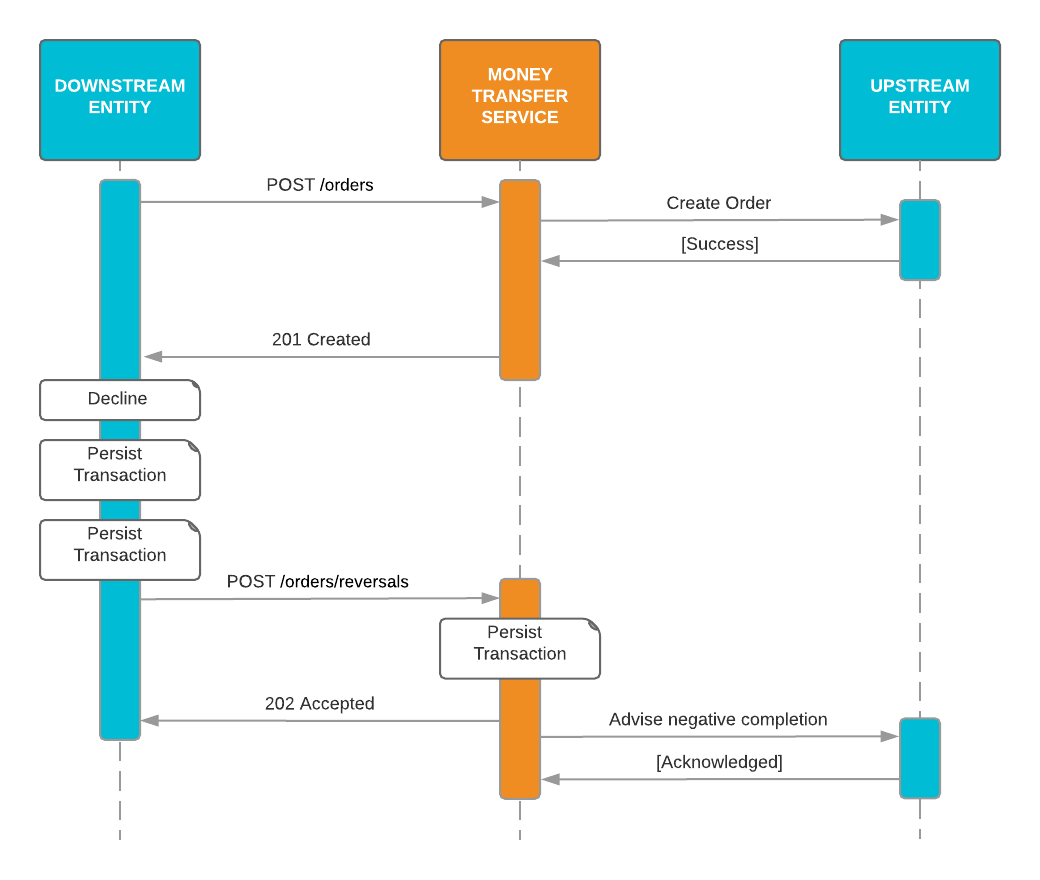
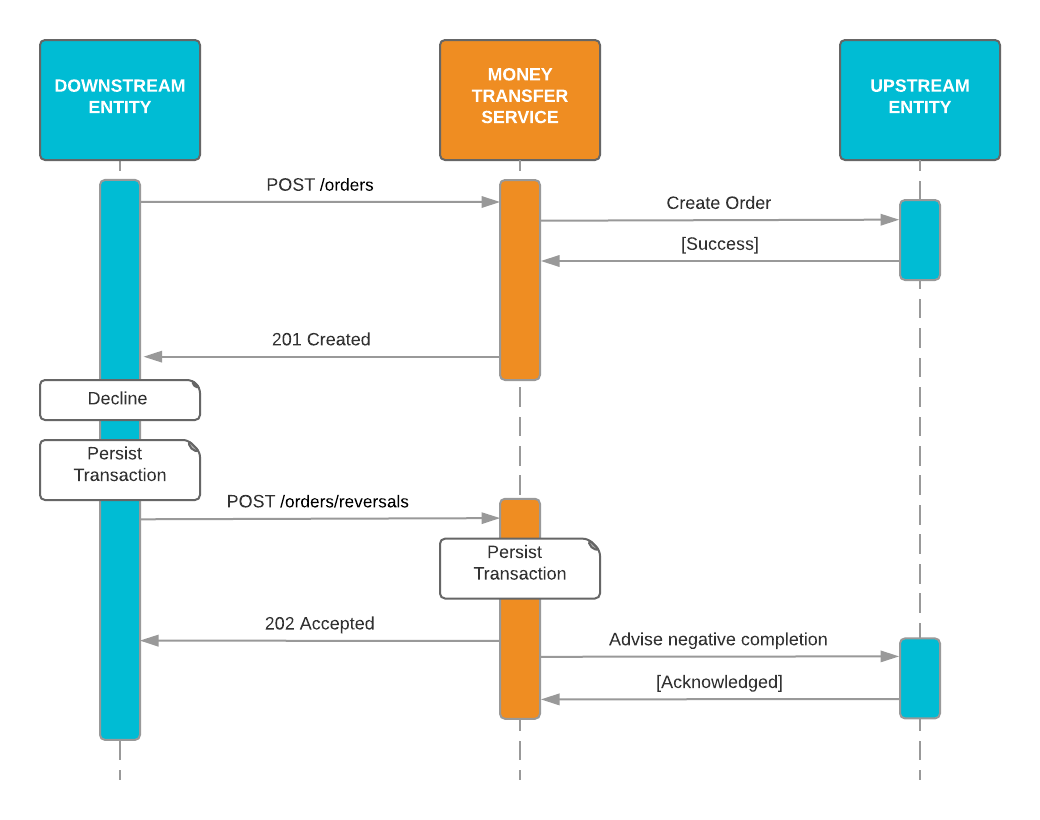
Small image and text fix

diff --git a/src/docs/devguide/hugo/site/content/transaction-flows.md b/src/docs/devguide/hugo/site/content/transaction-flows.md
@@ -93,19 +93,21 @@ In this case, the initial request from the downstream entity is processed and th
 
 ### Reversed Create Order
 
-The below diagram depicts the flow for both a cancellation and a timeout reversal.
+The below diagram depicts the flow for a cancellation.
 
-A Cancellation is a manual process that occurs when the downstream entity initiates a reversal despite receiving a successful response to their original request. A timeout is an automatic process that occurs when the Money Transfer Retailer Service does not receive a response to the request in the configured time limit. The Money Transfer Retailer Service will notify both the downstream and upstream entities that the transaction was not completed.
+A cancellation is a manual process that occurs when the downstream entity initiates a reversal despite receiving a successful response to their original request.
 
 A Reversal may take time to be processed, the customer could exceed account limits if the reversal has not yet been processed and the downstream entity may re-attempts the order creation.
 
 ![Reversed Create Order](/images/sequence-reversed-create-order.png "Reversed Create Order")
 
-### Timeout Create Order
+### Timeout Reversal Create Order
 
-The below diagram depicts the flow of a Create Order response getting lost and the transaction timing out. The diagram further shows the flow of the timeout reversal and the downstream entity retrying the Create Order transaction.
+The below diagram depicts the flow of a Create Order transaction timing out. Further the diagram shows the flow of the timeout reversal and the downstream entity retrying the Create Order transaction.
 
-![Timeout Create Order](/images/sequence-timeout-create-order.png "Timeout Create Order")
+A timeout is an automatic process that occurs when the Money Transfer Retailer Service does not receive a response to the request in the configured time limit. The Money Transfer Retailer Service will notify both the downstream and upstream entities that the transaction was not completed.
+
+![Timeout Reversal Create Order](/images/sequence-timeout-create-order.png "Timeout Reversal Create Order")
 
 ## Lookup Order
 
@@ -149,12 +151,12 @@ The below diagram depicts the flow when the Redeem Order request receives a nega
 
 ### Reversed Redeem
 
-The below diagram depicts the case where a negative advice (Reversal) is sent from the downstream entity to ensure that the previously requested redeem is not confirmed. As with a [Reversed Create Order](/transaction-flows/#reversed-create-order), both an automatic (timeout) and manual (cancellation) reversal are shown.
+The below diagram depicts the case where a negative advice (Reversal) is sent from the downstream entity to ensure that the previously requested redeem is not confirmed. As with a [Reversed Create Order](/transaction-flows/#reversed-create-order) the manual (cancellation) reversal is shown.
 
 ![Reversed Redeem](/images/sequence-reversed-redeem-order.png "Reversed Redeem")
 
 ### Timeout Redeem
 
-The below diagram depicts a timeout scenario when a Redeem Order request times out, then the redemption is reversed and retry of the redemption is tried.
+The below diagram depicts a timeout scenario when a Redeem Order request times out, then the redemption is reversed and the redemption is retried.
 
 ![Timeout Redeem](/images/sequence-timeout-redeem-order.png "Timeout Redeem")
